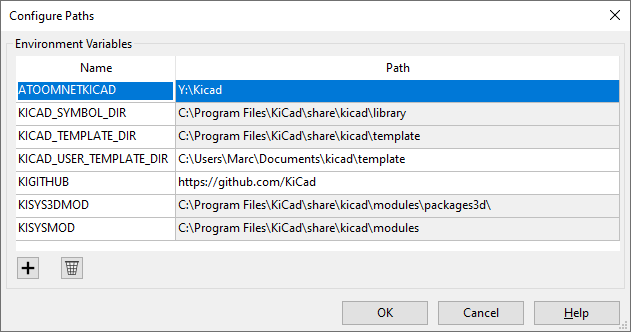
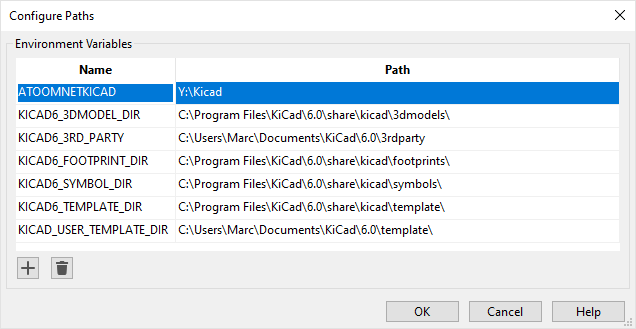
Kicad 6 path configure instruction update.

diff --git a/README.md b/README.md
@@ -1,8 +1,8 @@
-This repository contains my personal collection of Kicad symbols, footprints and 3d models I use in my Kicad projects.
+This repository contains my personal collection of Kicad 6 symbols, footprints and 3d models I use in my Kicad projects.
 
 Please note that not all symbols, footprints or 3d models have been been validated and/or production tested and should be assumed to be wildly incorrect. When you choose to use this library for any reason, please validate everything yourself.
 
-Please configure your [Kicad Paths](https://docs.kicad.org/5.0/en/kicad/kicad.html#paths_configuration) and add ```${ATOOMNETKICAD}``` to point to the directory this repository has been cloned to.
+Please configure your [Kicad Paths](https://docs.kicad.org/6.0/en/kicad/kicad.html#paths_configuration) and add ```${ATOOMNETKICAD}``` to point to the directory this repository has been cloned to.
 
 ![](configure-paths.png)
 
